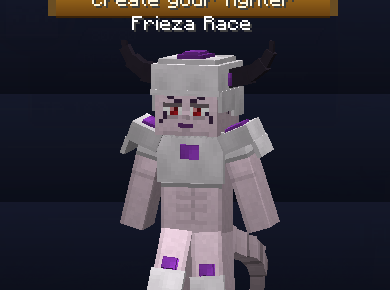
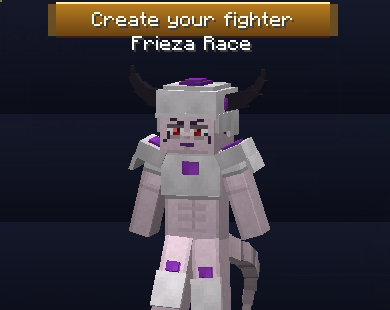
Redesign Bio-Android look in the style of Cell's imperfect form

Changed region(s): [[0.1231, 0.0, 0.8923, 1.0]]

diff --git a/common/src/main/java/com/dbtenkaichi/client/render/TenkaichiModels.java b/common/src/main/java/com/dbtenkaichi/client/render/TenkaichiModels.java
@@ -24,6 +24,7 @@ public final class TenkaichiModels {
     public static final ModelLayerLocation AURA_SHELL = new ModelLayerLocation(Tenkaichi.id("aura_shell"), "main");
     public static final ModelLayerLocation FIGHTER = new ModelLayerLocation(Tenkaichi.id("fighter"), "main");
     public static final ModelLayerLocation THICK_TAIL = new ModelLayerLocation(Tenkaichi.id("thick_tail"), "main");
+    public static final ModelLayerLocation STINGER_TAIL = new ModelLayerLocation(Tenkaichi.id("stinger_tail"), "main");
     public static final ModelLayerLocation SHOULDER_PADS = new ModelLayerLocation(Tenkaichi.id("shoulder_pads"), "main");
     public static final ModelLayerLocation BEARD = new ModelLayerLocation(Tenkaichi.id("beard"), "main");
     public static final Map<Race, Map<FeatureTint, ModelLayerLocation>> FEATURES = new EnumMap<>(Race.class);
@@ -76,7 +77,8 @@ public final class TenkaichiModels {
         registrar.accept(TAIL, TenkaichiModels::tail);
         registrar.accept(AURA_SHELL, () -> LayerDefinition.create(PlayerModel.createMesh(new CubeDeformation(0.45f), false), 64, 64));
         registrar.accept(FIGHTER, () -> LayerDefinition.create(PlayerModel.createMesh(CubeDeformation.NONE, false), 64, 64));
-        registrar.accept(THICK_TAIL, TenkaichiModels::thickTail);
+        registrar.accept(THICK_TAIL, () -> thickTail(false));
+        registrar.accept(STINGER_TAIL, () -> thickTail(true));
         registrar.accept(SHOULDER_PADS, TenkaichiModels::shoulderPads);
         registrar.accept(BEARD, TenkaichiModels::beard);
         FEATURES.forEach((race, byTint) -> byTint.forEach((tint, location) ->
@@ -219,7 +221,7 @@ public final class TenkaichiModels {
         return LayerDefinition.create(mesh, 64, 32);
     }
 
-    public static LayerDefinition thickTail() {
+    public static LayerDefinition thickTail(boolean stinger) {
         MeshDefinition mesh = emptyPlayerMesh();
         PartDefinition parent = mesh.getRoot().getChild("body");
         float previous = 0.0f;
@@ -229,7 +231,13 @@ public final class TenkaichiModels {
             float length = 3.4f - t * 0.8f;
             CubeListBuilder cube = CubeListBuilder.create().texOffs(0, i * 7 % 56).addBox(-size / 2.0f, 0.0f, -size / 2.0f, size, length + 0.4f, size);
             if (i == THICK_TAIL_SEGMENTS - 1) {
-                cube.texOffs(32, 0).addBox(-0.5f, length, -0.5f, 1.0f, 2.2f, 1.0f);
+                if (stinger) {
+                    cube.texOffs(32, 0).addBox(-1.1f, length, -1.1f, 2.2f, 1.6f, 2.2f)
+                            .texOffs(32, 8).addBox(-0.7f, length + 1.6f, -0.7f, 1.4f, 1.8f, 1.4f)
+                            .texOffs(32, 16).addBox(-0.35f, length + 3.4f, -0.35f, 0.7f, 1.8f, 0.7f);
+                } else {
+                    cube.texOffs(32, 0).addBox(-0.5f, length, -0.5f, 1.0f, 2.2f, 1.0f);
+                }
             }
             PartPose pose = i == 0 ? PartPose.offsetAndRotation(0.0f, 10.8f, 1.6f, 1.05f, 0.0f, 0.0f)
                     : PartPose.offsetAndRotation(0.0f, previous, 0.0f, i < 4 ? 0.12f : -0.16f, 0.0f, 0.0f);
@@ -353,12 +361,54 @@ public final class TenkaichiModels {
                 }
             }
             case BIO_ANDROID -> {
-                if (tint == FeatureTint.ACCENT) {
-                    b.crest(-1, 0.42f);
-                    b.crest(1, 0.42f);
-                    head.addOrReplaceChild("brow_ridge", CubeListBuilder.create().texOffs(0, 40).addBox(-4.4f, -6.3f, -4.6f, 8.8f, 1.0f, 0.8f), PartPose.ZERO);
-                } else {
-                    any = false;
+                PartDefinition root = mesh.getRoot();
+                switch (tint) {
+                    case PLATE -> {
+                        for (int side = -1; side <= 1; side += 2) {
+                            PartDefinition crest = head.addOrReplaceChild("crest_" + (side < 0 ? "l" : "r"), CubeListBuilder.create().texOffs(0, 0)
+                                            .addBox(-0.7f, -7.5f, -1.9f, 1.4f, 7.5f, 3.8f)
+                                            .texOffs(12, 0).addBox(-0.5f, -6.5f, 1.9f, 1.0f, 5.5f, 1.2f),
+                                    PartPose.offsetAndRotation(side * 2.6f, -7.6f, -2.2f, -0.12f, 0.0f, side * 0.22f));
+                            PartDefinition mid = crest.addOrReplaceChild("mid", CubeListBuilder.create().texOffs(0, 12)
+                                    .addBox(-0.55f, -5.0f, -1.4f, 1.1f, 5.2f, 2.8f), PartPose.offsetAndRotation(0.0f, -7.3f, 0.0f, -0.32f, 0.0f, side * 0.1f));
+                            mid.addOrReplaceChild("tip", CubeListBuilder.create().texOffs(0, 22)
+                                    .addBox(-0.35f, -3.4f, -0.8f, 0.7f, 3.6f, 1.6f), PartPose.offsetAndRotation(0.0f, -4.9f, 0.0f, -0.45f, 0.0f, 0.0f));
+                        }
+                        head.addOrReplaceChild("crown", CubeListBuilder.create().texOffs(0, 30)
+                                .addBox(-4.45f, -8.6f, -4.5f, 8.9f, 1.4f, 8.9f)
+                                .texOffs(0, 42).addBox(-4.5f, -6.6f, -4.6f, 9.0f, 1.0f, 0.7f)
+                                .texOffs(0, 46).addBox(-1.0f, -9.2f, -4.0f, 2.0f, 0.8f, 7.0f), PartPose.ZERO);
+                        head.addOrReplaceChild("jaw_l", CubeListBuilder.create().texOffs(32, 30)
+                                .addBox(-4.6f, -4.6f, -4.0f, 0.6f, 3.6f, 3.0f), PartPose.ZERO);
+                        head.addOrReplaceChild("jaw_r", CubeListBuilder.create().texOffs(32, 30)
+                                .addBox(4.0f, -4.6f, -4.0f, 0.6f, 3.6f, 3.0f), PartPose.ZERO);
+                    }
+                    case BODY_PLATE -> {
+                        PartDefinition body = root.getChild("body");
+                        body.addOrReplaceChild("carapace", CubeListBuilder.create().texOffs(0, 0)
+                                .addBox(-4.3f, -0.2f, -2.55f, 8.6f, 5.4f, 0.7f)
+                                .texOffs(0, 8).addBox(-3.6f, 5.6f, -2.5f, 7.2f, 1.6f, 0.6f)
+                                .addBox(-3.3f, 7.5f, -2.5f, 6.6f, 1.6f, 0.6f)
+                                .addBox(-3.0f, 9.4f, -2.5f, 6.0f, 1.6f, 0.6f)
+                                .texOffs(0, 16).addBox(-4.3f, -0.3f, 1.85f, 8.6f, 4.0f, 0.7f), PartPose.ZERO);
+                        for (int side = -1; side <= 1; side += 2) {
+                            body.addOrReplaceChild("wing_" + (side < 0 ? "l" : "r"), CubeListBuilder.create().texOffs(0, 24)
+                                            .addBox(side < 0 ? -3.8f : 0.0f, 0.0f, 0.0f, 3.8f, 10.5f, 0.6f)
+                                            .texOffs(12, 24).addBox(side < 0 ? -2.6f : 0.6f, 10.5f, 0.0f, 2.0f, 2.2f, 0.6f),
+                                    PartPose.offsetAndRotation(side * 0.4f, 0.6f, 2.55f, 0.22f, side * -0.18f, side * -0.16f));
+                        }
+                        root.getChild("right_arm").addOrReplaceChild("shell", CubeListBuilder.create().texOffs(0, 40)
+                                .addBox(-3.6f, -2.6f, -2.5f, 4.4f, 2.0f, 5.0f)
+                                .texOffs(0, 48).addBox(-3.55f, 6.0f, -2.45f, 0.6f, 3.6f, 4.9f), PartPose.rotation(0.0f, 0.0f, 0.1f));
+                        root.getChild("left_arm").addOrReplaceChild("shell", CubeListBuilder.create().texOffs(0, 40).mirror()
+                                .addBox(-0.8f, -2.6f, -2.5f, 4.4f, 2.0f, 5.0f)
+                                .texOffs(0, 48).addBox(2.95f, 6.0f, -2.45f, 0.6f, 3.6f, 4.9f), PartPose.rotation(0.0f, 0.0f, -0.1f));
+                        root.getChild("right_leg").addOrReplaceChild("shell", CubeListBuilder.create().texOffs(0, 56)
+                                .addBox(-2.2f, 4.0f, -2.45f, 4.4f, 3.0f, 0.6f), PartPose.ZERO);
+                        root.getChild("left_leg").addOrReplaceChild("shell", CubeListBuilder.create().texOffs(0, 56)
+                                .addBox(-2.2f, 4.0f, -2.45f, 4.4f, 3.0f, 0.6f), PartPose.ZERO);
+                    }
+                    default -> any = false;
                 }
             }
             case ANDROID -> {

diff --git a/common/src/main/java/com/dbtenkaichi/client/render/CustomSkins.java b/common/src/main/java/com/dbtenkaichi/client/render/CustomSkins.java
@@ -95,6 +95,9 @@ public final class CustomSkins {
             body(32, 48, 4, 12, 4, false);
             body(0, 16, 4, 12, 4, false);
             body(16, 48, 4, 12, 4, false);
+            if (race == Race.BIO_ANDROID) {
+                bioBase();
+            }
             torsoAnatomy();
             limbAnatomy(40, 16);
             limbAnatomy(32, 48);
@@ -246,7 +249,7 @@ public final class CustomSkins {
         private void face() {
             int fx = 8 * S;
             int fy = 8 * S;
-            int brow = race == Race.FRIEZA_RACE ? 0x3A2440 : bald ? shade(skin, 0.6f) : shade(hairColor, 0.9f);
+            int brow = race == Race.FRIEZA_RACE ? 0x3A2440 : race == Race.BIO_ANDROID ? 0x1E2A16 : bald ? shade(skin, 0.6f) : shade(hairColor, 0.9f);
             int browY = fy + 6;
             switch (a.eyebrowStyle) {
                 case 1 -> {
@@ -439,15 +442,28 @@ public final class CustomSkins {
                     }
                 }
                 case BIO_ANDROID -> {
-                    for (int y = 0; y < 128; y++) {
-                        for (int x = 0; x < 128; x++) {
-                            int c = img.getPixel(x, y);
-                            if ((c >>> 24) != 0 && noise(x / 3, y / 3) > 222) {
-                                px(x, y, mix(c & 0xFFFFFF, feature, 0.75f));
-                            }
+                    int fx = 8 * S;
+                    int fy = 8 * S;
+                    int mark = 0x7A2E8C;
+                    line(fx + 3, fy + 11, fx + 2, fy + 14, mark);
+                    line(fx + 4, fy + 11, fx + 3, fy + 14, mark);
+                    line(fx + 12, fy + 11, fx + 13, fy + 14, mark);
+                    line(fx + 11, fy + 11, fx + 12, fy + 14, mark);
+                    line(fx + 6, fy + 13, fx + 9, fy + 13, 0x1A1C16);
+                    line(fx + 7, fy + 14, fx + 8, fy + 14, 0x1A1C16);
+                    px(fx + 7, fy + 15, 0x2A2C22);
+                    int shell = TenkaichiLayers.carapaceColor(feature);
+                    rect(8 * S, 0, 16, 16, shell, 1.1f, 0.9f, 0.04f);
+                    rect(fx, fy, 16, 4, shell, 1.0f, 0.85f, 0.04f);
+                    if (a.outfit == Appearance.OUTFIT_NATURAL) {
+                        rect(20 * S, 20 * S, 16, 11, shell, 1.15f, 0.9f, 0.04f);
+                        line(20 * S + 7, 20 * S + 1, 20 * S + 7, 20 * S + 10, shade(shell, 1.6f));
+                        for (int row = 0; row < 3; row++) {
+                            int ry = 20 * S + 12 + row * 4;
+                            rect(20 * S + 2 + row, ry, 12 - row * 2, 3, shell, 1.1f, 0.85f, 0.04f);
                         }
+                        rect(32 * S, 20 * S, 16, 8, shell, 0.9f, 0.8f, 0.04f);
                     }
-                    rect(8 * S + 2, 8 * S, 12, 3, feature, 0.9f, 1.0f, 0.05f);
                 }
                 case ANDROID -> {
                     px(0 * S + 7, 8 * S + 7, feature);
@@ -639,9 +655,38 @@ public final class CustomSkins {
             hd(52, 48, 4, 4, plate, 1.1f, 1.0f, 0.03f);
         }
 
+        private void bioBase() {
+            int feature = a.featureColor;
+            java.util.Random rng = new java.util.Random(race.ordinal() * 31L + skin);
+            int[][] regions = {{0, 16, 64, 32}, {32, 48, 32, 16}, {16, 48, 32, 16}, {0, 0, 64, 16}, {64, 0, 64, 16}};
+            for (int[] region : regions) {
+                int count = region[2] * region[3] / 26;
+                for (int i = 0; i < count; i++) {
+                    int cx = region[0] * S + rng.nextInt(region[2] * S);
+                    int cy = region[1] * S + rng.nextInt(region[3] * S);
+                    int r = 2 + rng.nextInt(3);
+                    for (int dy = -r; dy <= r; dy++) {
+                        for (int dx = -r; dx <= r; dx++) {
+                            if (dx * dx + dy * dy <= r * r + 1) {
+                                int x = cx + dx;
+                                int y = cy + dy;
+                                if (x >= 0 && y >= 0 && x < 128 && y < 128 && (img.getPixel(x, y) >>> 24) != 0) {
+                                    px(x, y, shade(feature, 0.9f + rng.nextFloat() * 0.3f));
+                                }
+                            }
+                        }
+                    }
+                }
+            }
+            int face = mix(skin, 0xE8DCD4, 0.78f);
+            rect(8 * S, 8 * S + 4, 16, 12, face, 1.05f, 0.92f, 0.03f);
+            rect(0 * S + 10, 8 * S + 8, 6, 6, face, 0.9f, 0.85f, 0.03f);
+            rect(16 * S, 8 * S + 8, 6, 6, face, 0.9f, 0.85f, 0.03f);
+        }
+
         private void natural() {
             overlayClear();
-            if (race == Race.FRIEZA_RACE) {
+            if (race == Race.FRIEZA_RACE || race == Race.BIO_ANDROID) {
                 return;
             }
             int shorts = a.outfitPrimary;

diff --git a/common/src/main/java/com/dbtenkaichi/client/render/TenkaichiLayers.java b/common/src/main/java/com/dbtenkaichi/client/render/TenkaichiLayers.java
@@ -130,11 +130,13 @@ public final class TenkaichiLayers {
     static final class TailLayer extends RenderLayer<AvatarRenderState, PlayerModel> {
         private final TailModel model;
         private final TailModel thick;
+        private final TailModel stinger;
 
         TailLayer(RenderLayerParent<AvatarRenderState, PlayerModel> parent, EntityModelSet set) {
             super(parent);
             this.model = new TailModel(set.bakeLayer(TenkaichiModels.TAIL), TenkaichiModels.TAIL_SEGMENTS, 1.0f);
             this.thick = new TailModel(set.bakeLayer(TenkaichiModels.THICK_TAIL), TenkaichiModels.THICK_TAIL_SEGMENTS, 0.6f);
+            this.stinger = new TailModel(set.bakeLayer(TenkaichiModels.STINGER_TAIL), TenkaichiModels.THICK_TAIL_SEGMENTS, 0.5f);
         }
 
         @Override
@@ -150,8 +152,8 @@ public final class TenkaichiLayers {
                 Race race = visual.race;
                 if (race == Race.FRIEZA_RACE || race == Race.BIO_ANDROID && visual.appearance.tail) {
                     int skin = visual.appearance.skinColor;
-                    int color = 0xFF000000 | (race == Race.BIO_ANDROID ? EntityVisual.mix(skin, visual.appearance.featureColor, 0.35f) : skin);
-                    collector.submitModel(thick, state, poseStack, RenderTypes.entityCutout(THICK_TAIL_TEXTURE), light, OverlayTexture.NO_OVERLAY, color, null, state.outlineColor);
+                    int color = 0xFF000000 | (race == Race.BIO_ANDROID ? EntityVisual.mix(skin, visual.appearance.featureColor, 0.25f) : skin);
+                    collector.submitModel(race == Race.BIO_ANDROID ? stinger : thick, state, poseStack, RenderTypes.entityCutout(THICK_TAIL_TEXTURE), light, OverlayTexture.NO_OVERLAY, color, null, state.outlineColor);
                     return;
                 }
                 if (!visual.appearance.tail || !race.has(RacePassive.TAIL) || !race.hasHair()) {
@@ -201,7 +203,7 @@ public final class TenkaichiLayers {
                         case SKIN -> visual.appearance.skinColor;
                         case ACCENT, GEM, BODY_GEM -> visual.appearance.featureColor;
                         case HORN -> visual.race == Race.FRIEZA_RACE ? 0x2A2430 : visual.appearance.featureColor;
-                        case PLATE, BODY_PLATE -> plateColor(visual.appearance.skinColor);
+                        case PLATE, BODY_PLATE -> visual.race == Race.BIO_ANDROID ? carapaceColor(visual.appearance.featureColor) : plateColor(visual.appearance.skinColor);
                     };
                     Identifier texture = tint.gem() ? GEM_TEXTURE : FEATURE_TEXTURE;
                     collector.submitModel(entry.getValue(), state, poseStack, RenderTypes.entityCutout(texture), light, OverlayTexture.NO_OVERLAY,
@@ -211,6 +213,10 @@ public final class TenkaichiLayers {
                 RenderGuard.report("feature", e);
             }
         }
+    }
+
+    public static int carapaceColor(int feature) {
+        return EntityVisual.mix(0x1A1C16, feature, 0.35f);
     }
 
     public static int plateColor(int skin) {

diff --git a/common/src/main/java/com/dbtenkaichi/client/screen/CharacterCreatorScreen.java b/common/src/main/java/com/dbtenkaichi/client/screen/CharacterCreatorScreen.java
@@ -49,7 +49,7 @@ public class CharacterCreatorScreen extends Screen {
     private int tab;
     private float yaw = 20.0f;
     private float pitch = -5.0f;
-    private int zoom = 70;
+    private int zoom = 62;
     private boolean dragging;
 
     public CharacterCreatorScreen(CompoundTag data) {
@@ -277,11 +277,11 @@ public class CharacterCreatorScreen extends Screen {
         int previewW = this.width / 2;
         TenkaichiUi.panel(g, 8, 8, previewW - 12, this.height - 40);
         TenkaichiUi.header(g, this.font, this.title, previewW / 2, 16);
-        g.centeredText(this.font, Component.translatable(race.translationKey()), previewW / 2, 28, 0xFFFFFFFF);
         g.textWithWordWrap(this.font, Component.translatable("race.dbtenkaichi." + race.id() + ".desc"), 16, this.height - 60, previewW - 32, 0xFFBBBBBB);
         if (mc.player != null) {
-            EntityPreview.draw(g, 12, 40, previewW - 8, this.height - 52, zoom, yaw, pitch, appearance.height, mc.player);
+            EntityPreview.draw(g, 12, 32, previewW - 8, this.height - 52, zoom, yaw, pitch, appearance.height, mc.player);
         }
+        g.centeredText(this.font, Component.translatable(race.translationKey()), previewW / 2, 28, 0xFFFFFFFF);
     }
 
     @Override

diff --git a/common/src/main/java/com/dbtenkaichi/player/Appearance.java b/common/src/main/java/com/dbtenkaichi/player/Appearance.java
@@ -166,11 +166,12 @@ public final class Appearance {
                 a.outfitSecondary = 0x1F3F7A;
             }
             case BIO_ANDROID -> {
-                a.skinColor = 0x7FB45A;
-                a.featureColor = 0x2E4A1E;
+                a.skinColor = 0x86BE5E;
+                a.featureColor = 0x23361A;
                 a.eyeColor = 0xC01A6A;
                 a.auraColor = 0xB8F070;
-                a.outfit = 1;
+                a.eyebrowStyle = 1;
+                a.outfit = OUTFIT_NATURAL;
                 a.outfitPrimary = 0x1E3A16;
                 a.outfitSecondary = 0x9C6FB8;
             }

diff --git a/docs/FEATURES.md b/docs/FEATURES.md
@@ -12,10 +12,10 @@ la colonna "Verifica" indica come è stata provata (vedi `TESTING.md`).
 | Personaggio | 10 razze giocabili: Saiyan, Mezzo-Saiyan, Umano, Namecciano, Razza di Freezer, Majin, Androide, Bio-Androide, Kaioshin, Razza del Regno Demoniaco | Implementata | JUnit + client (galleria) |
 | Personaggio | Passive razziali con effetto reale lato server (vedi tabella sotto) | Implementata | JUnit (distinzione), codice; effetti non provati in gioco |
 | Personaggio | Aspetto predefinito, palette della pelle e "colore dettagli" diversi per razza | Implementata | client scriptato |
-| Personaggio | Modelli 3D razziali: antenne e orecchie (Namecciano), aspetto della prima forma (pelle rosa-lilla, cupola, guance, spalline e placca pettorale bianche, gemme colorate, corna scure curve verso l'alto, coda spessa) per la Razza di Freezer, antenna (Majin), cresta e coda a pungiglione (Bio-Androide), auricolari (Androide), orecchie a punta e orecchini (Kaioshin), corna e orecchie (Demoniaca) | Implementata | client scriptato (screenshot) |
+| Personaggio | Modelli 3D razziali: antenne e orecchie (Namecciano), aspetto della prima forma (pelle rosa-lilla, cupola, guance, spalline e placca pettorale bianche, gemme colorate, corna scure curve verso l'alto, coda spessa) per la Razza di Freezer, antenna (Majin), aspetto stile Cell forma imperfetta per il Bio-Androide (pelle verde maculata, viso pallido con segni viola, bocca a becco, cresta nera a corona, esoscheletro segmentato, ali-guscio, coda a pungiglione), auricolari (Androide), orecchie a punta e orecchini (Kaioshin), corna e orecchie (Demoniaca) | Implementata | client scriptato (screenshot) |
 | Personaggio | Skin procedurale HD 128×128: ombreggiatura, muscoli, viso dettagliato (palpebre, iridi, riflessi, naso, orecchie), abiti 3D sui layer esterni con pieghe, cintura, emblema, stivali; dettagli razziali (bande sulle braccia, macchie, placche) | Implementata | client scriptato |
 | Personaggio | Armatura con spalline e pettorale 3D; barba e baffi del Maestro | Implementata | client scriptato |
-| Personaggio | Outfit "Naturale": corpo con corazza biologica per la Razza di Freezer, pantaloncini per le altre razze | Implementata | client scriptato (galleria) |
+| Personaggio | Outfit "Naturale": corpo con corazza biologica per la Razza di Freezer e per il Bio-Androide, pantaloncini per le altre razze | Implementata | client scriptato (galleria) |
 | Personaggio | 7 acconciature selezionabili + 3 di trasformazione con ciocche curve a 4 segmenti, texture capelli HD; coda Saiyan a 8 segmenti animata | Implementata | client scriptato |
 | Personaggio | Altezza (attributo `scale`) e corporatura (larghezza modello) | Implementata | client scriptato |
 | Statistiche | 12 statistiche, TP, costo superlineare, cap da Potenziale, pratica | Implementata | JUnit |

diff --git a/docs/PROGRESS.md b/docs/PROGRESS.md
@@ -103,3 +103,11 @@ Nessuna verifica automatica fallisce allo stato attuale.
 - Nuovo outfit "Naturale" (default per questa razza); placche e gemme del corpo visibili solo con esso.
 - Verificato con la galleria del test client su Fabric e NeoForge (`docs/screenshots/frieza_race_first_form.png`).
 - Primo tentativo: corna ruotate verso l'interno della testa → corretta la rotazione.
+
+### Aggiornamento — Bio-Androide
+- Aspetto ridisegnato sullo stile di Cell (forma imperfetta): macchie scure su tutto il corpo, viso pallido
+  con segni viola sulle guance e bocca a becco, cresta nera a corona, esoscheletro scuro e segmentato su
+  petto/addome/spalle/ginocchia, ali-guscio sulla schiena, coda a pungiglione dedicata; outfit Naturale di default.
+- Area di anteprima del creator allargata (le creste e le corna alte venivano tagliate) e nome della razza
+  disegnato sopra il modello.
+- Verificato con la galleria del test client su Fabric e NeoForge (`docs/screenshots/bio_android_cell_style.png`).
